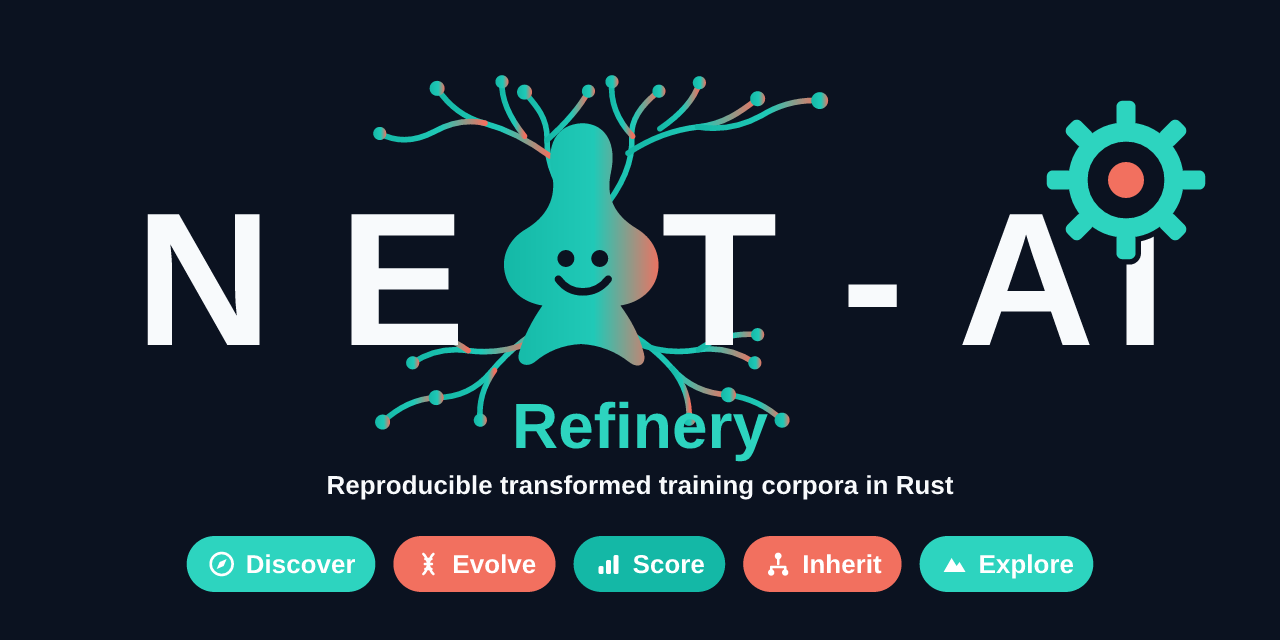
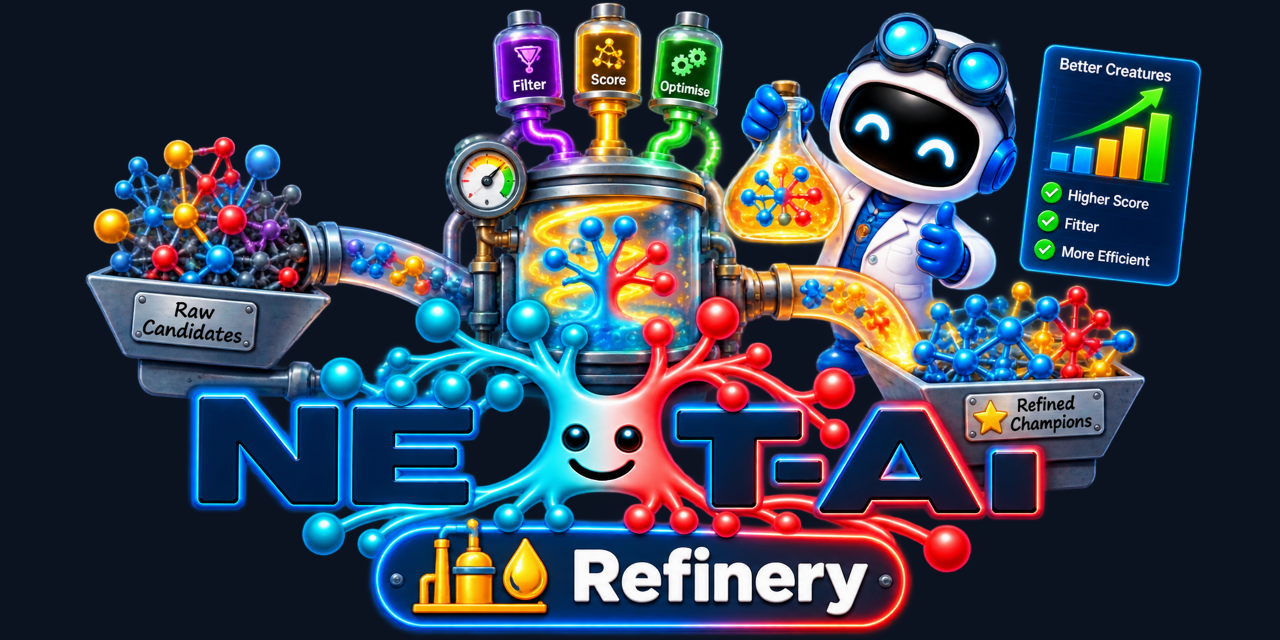
Use the hand-authored Refinery artwork for the social preview.
Rename the source master to neat-ai-refinery.png and rebuild the 1280×640
transparent, opaque, and GitHub-upload variants from it.

diff --git a/scripts/brand/scale_social_previews.ts b/scripts/brand/scale_social_previews.ts
@@ -15,6 +15,7 @@
  * Usage:
  *   deno run -A scripts/brand/scale_social_previews.ts
  *   deno run -A scripts/brand/scale_social_previews.ts --github-only
+ *   deno run -A scripts/brand/scale_social_previews.ts neat-ai-refinery.png
  *
  * `--github-only` rebuilds `github/*.png` from the already-fitted transparent
  * PNGs and does not read or write `source/`.
@@ -132,7 +133,12 @@ async function main(): Promise<void> {
   }
   const sourceDir = `${outDir}/source`;
 
-  const masters = await pngNamesIn(sourceDir);
+  const requested = args.filter((arg) =>
+    arg.endsWith(".png") && !arg.startsWith("-")
+  );
+  const masters = requested.length > 0
+    ? requested.map((name) => name.split("/").pop()!)
+    : await pngNamesIn(sourceDir);
   if (masters.length === 0) {
     throw new Error(`no PNG masters in ${sourceDir}`);
   }
